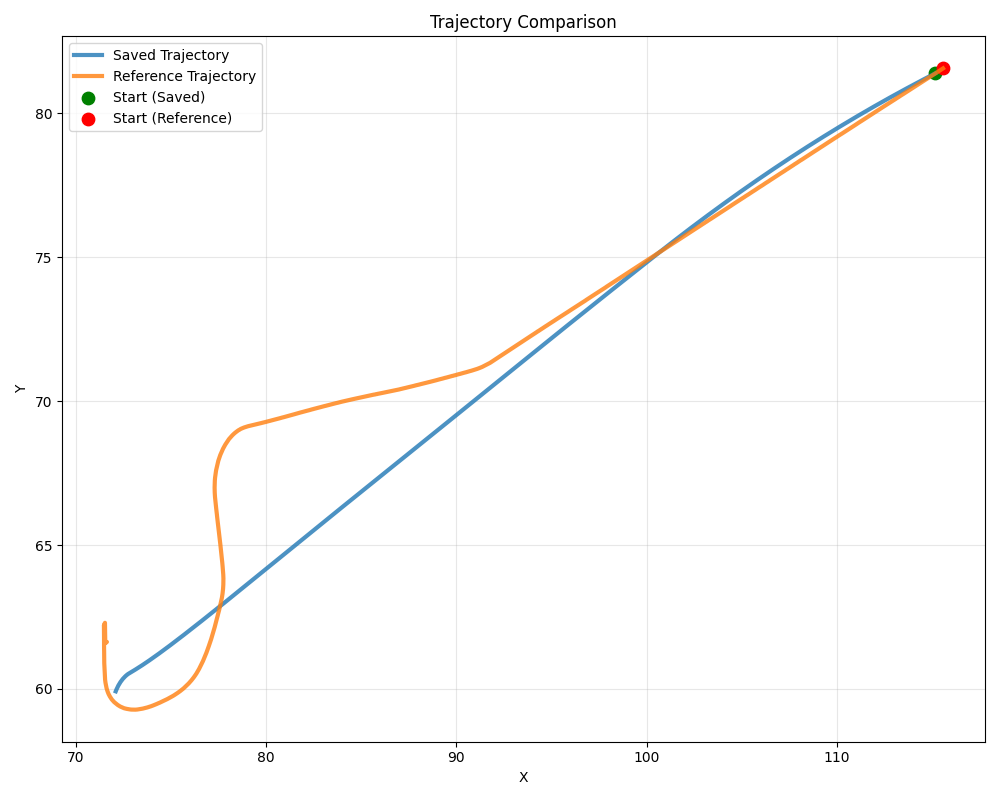
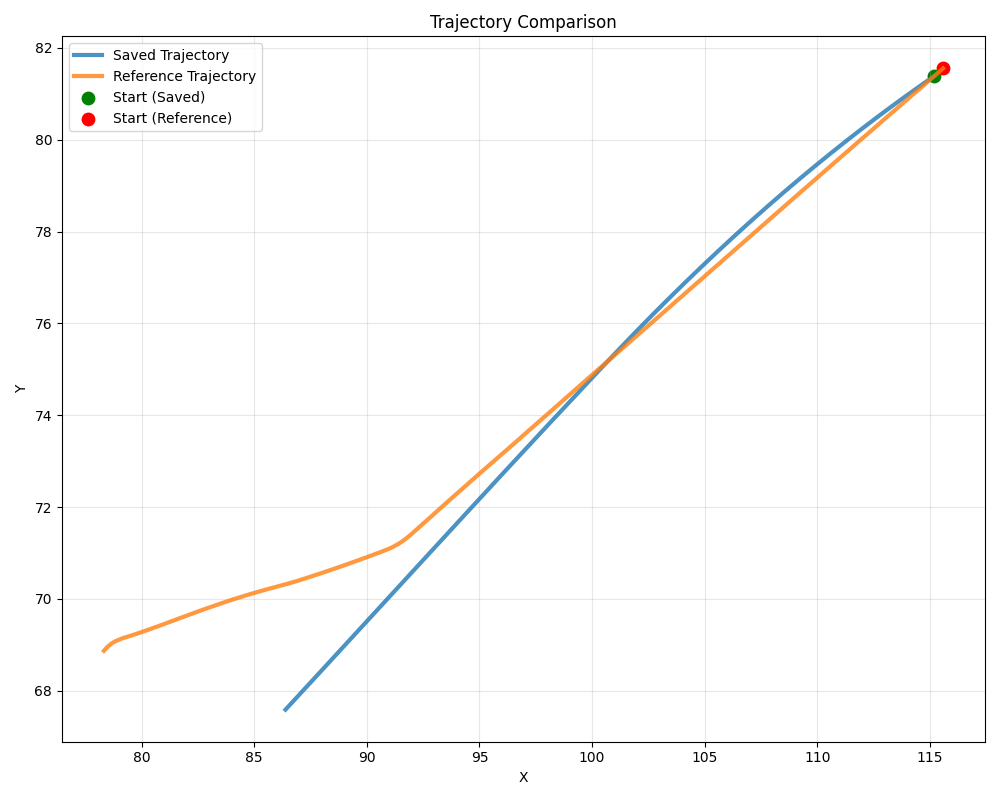
finish traj traj comp

diff --git a/trajcomp.py b/trajcomp.py
@@ -4,6 +4,7 @@ import matplotlib.pyplot as plt
 from pathlib import Path
 from scipy.spatial.distance import cdist
 from scipy.signal import resample
+import argparse
 
 try:
     from fastdtw import fastdtw
@@ -39,6 +40,21 @@ def curvature(traj):
 def speed_profile(traj):
     diffs = np.diff(traj, axis=0)
     return np.linalg.norm(diffs, axis=1)
+
+def estimate_fuel_use_realistic(traj, v_min=100, v_max=300, cruise_consumption=1.0):
+    traj = np.array(traj)
+    total_fuel = 0.0
+    for i in range(1, len(traj)):
+        dx, dy = traj[i,0] - traj[i-1,0], traj[i,1] - traj[i-1,1]
+        dist = np.sqrt(dx**2 + dy**2)
+        # Use a reasonable speed for fuel model (could use dist or a fixed cruise speed)
+        speed = max(dist, v_min)
+        speed_factor = (speed - v_min) / (v_max - v_min)
+        base_consumption = cruise_consumption * (0.8 + 0.4 * speed_factor**2)
+        # Fuel burned is proportional to distance, not time steps
+        fuel_burned = base_consumption * dist
+        total_fuel += fuel_burned
+    return total_fuel
 
 def compute_metrics(traj1, traj2):
     t1 = np.array(traj1[0][0])
@@ -98,7 +114,20 @@ def compute_metrics(traj1, traj2):
     sp2 = speed_profile(t2_rs)
     minlen = min(len(sp1), len(sp2))
     speed_l2 = np.linalg.norm(sp1[:minlen] - sp2[:minlen])
-    return {
+    # Fuel/energy efficiency comparison (realistic)
+    fuel1 = estimate_fuel_use_realistic(t1)
+    fuel2 = estimate_fuel_use_realistic(t2)
+    fuel1_per_unit = fuel1 / length1 if length1 > 0 else float('nan')
+    fuel2_per_unit = fuel2 / length2 if length2 > 0 else float('nan')
+    fuel_efficiency_ratio = fuel1_per_unit / fuel2_per_unit if fuel2_per_unit > 0 else float('nan')
+    metrics = {
+        'fuel_use_trajectory1': fuel1,
+        'fuel_use_trajectory2': fuel2,
+        'fuel_per_unit_distance_trajectory1': fuel1_per_unit,
+        'fuel_per_unit_distance_trajectory2': fuel2_per_unit,
+        'fuel_efficiency_ratio (saved/real)': fuel_efficiency_ratio,
+    }
+    metrics.update({
         'avg_pointwise_distance': avg_dist,
         'max_pointwise_distance': max_dist,
         'trajectory_length_difference': len_diff,
@@ -117,7 +146,8 @@ def compute_metrics(traj1, traj2):
         'trajectory2_max_curvature': max_curv2,
         'speed_profile_l2': speed_l2,
         'speed_profile_dtw': sp_dtw,
-    }, t1, t2
+    })
+    return metrics, t1, t2
 
 def plot_trajectories(t1, t2, outpath="traj_comparison.png"):
     plt.figure(figsize=(10, 8))
@@ -138,6 +168,9 @@ def plot_trajectories(t1, t2, outpath="traj_comparison.png"):
 def main():
     import glob
     import os
+    parser = argparse.ArgumentParser(description="Compare saved and real trajectories with optional cropping.")
+    parser.add_argument('--crop', type=int, default=0, help='Crop N points (as a fraction of the shorter trajectory) from the end of both trajectories before comparison')
+    args = parser.parse_args()
     saved_trajs = sorted(glob.glob("trajectory_*.py"), reverse=True)
     if not saved_trajs:
         print("No saved trajectory_*.py file found.")
@@ -150,6 +183,19 @@ def main():
     print(f"Comparing {saved_traj} (saved) and {real_traj} (real)...")
     traj1 = load_trajectory(saved_traj)
     traj2 = load_trajectory(real_traj)
+    crop = args.crop
+    t1_len = len(traj1[0][0])
+    t2_len = len(traj2[0][0])
+    if crop > 0:
+        min_len = min(t1_len, t2_len)
+        crop_frac = crop / min_len
+        crop1 = int(round(t1_len * crop_frac))
+        crop2 = int(round(t2_len * crop_frac))
+        if crop1 > 0:
+            traj1 = [[traj1[0][0][:-crop1]]]
+        if crop2 > 0:
+            traj2 = [[traj2[0][0][:-crop2]]]
+        print(f"Cropped last {crop1} points from saved trajectory and {crop2} points from real trajectory (fractional crop: {crop_frac:.3f}).")
     metrics, t1, t2 = compute_metrics(traj1, traj2)
     print("\n=== Trajectory Comparison Metrics ===")
     for k, v in metrics.items():
